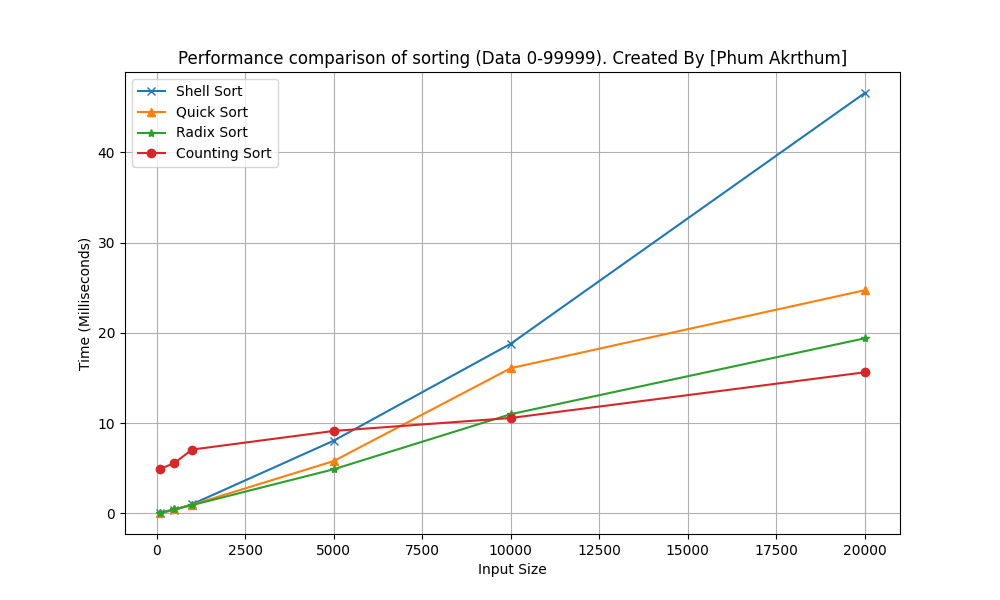
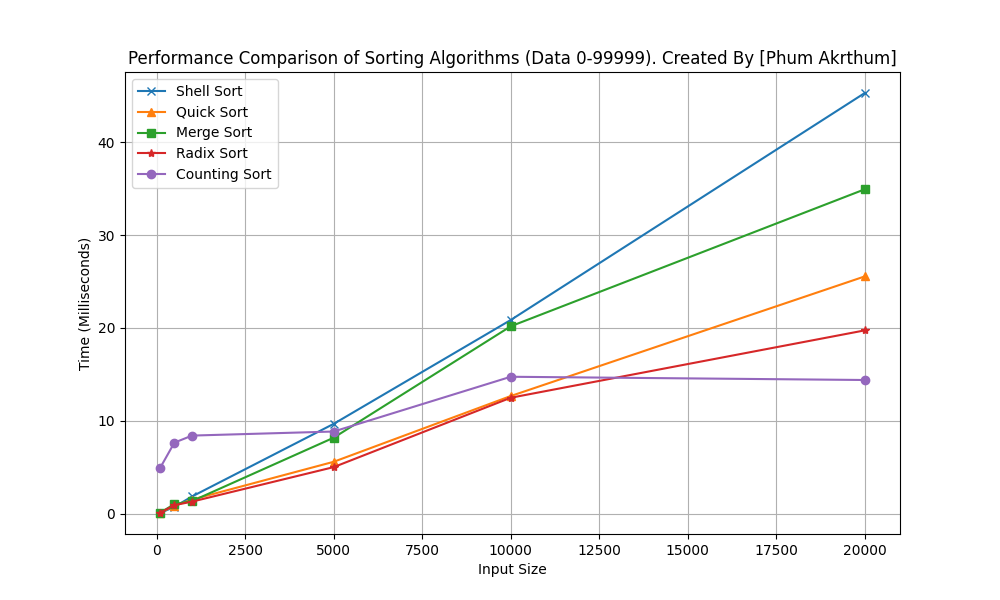
Update14

diff --git a/lastsorting.0-999999.py b/lastsorting.0-999999.py
@@ -103,7 +103,7 @@ def counting_sort_by_digit(arr, exp):
 
 # ฟังก์ชันเปรียบเทียบประสิทธิภาพ
 def compare_sort():
-    sizes = [100, 500, 1000, 5000, 10000, 20000]
+    sizes = [1000, 5000, 10000, 20000, 40000, 100000]  # เปลี่ยนขนาดอินพุต
     shell_times = []
     quick_times = []
     merge_times = []
@@ -111,7 +111,7 @@ def compare_sort():
     counting_times = []
 
     for size in sizes:
-        data = [random.randint(0, 99999) for _ in range(size)]
+        data = [random.randint(0, 999999) for _ in range(size)]  # เปลี่ยนข้อมูลให้อยู่ในช่วง 0-999
         
         # วัดเวลา Shell Sort
         start_time = time.time()
@@ -154,12 +154,12 @@ def compare_sort():
     plt.plot(sizes, radix_times, marker='*', label='Radix Sort')
     plt.plot(sizes, counting_times, marker='o', label='Counting Sort')
 
-    plt.title('Performance Comparison of Sorting Algorithms (Data 0-99999). Created By [Phum Akrthum]')
+    plt.title('Performance Comparison of Sorting Algorithms (Data 0-999999). Created By [Phum Akrthum]')
     plt.xlabel('Input Size')
     plt.ylabel('Time (Milliseconds)')
     plt.legend()
     plt.grid(True)
-    plt.savefig('Sorting_Performance_Comparison_All.png')
+    plt.savefig('Sorting_Performance_Comparison_0-999.png')
     plt.show()
 
 # เรียกใช้ฟังก์ชัน

diff --git a/lastsorting.0-999.py b/lastsorting.0-999.py
@@ -103,7 +103,7 @@ def counting_sort_by_digit(arr, exp):
 
 # ฟังก์ชันเปรียบเทียบประสิทธิภาพ
 def compare_sort():
-    sizes = [100, 500, 1000, 5000, 10000, 20000]
+    sizes = [1000, 5000, 10000, 20000, 40000, 100000]  # เปลี่ยนขนาดอินพุต
     shell_times = []
     quick_times = []
     merge_times = []
@@ -111,7 +111,7 @@ def compare_sort():
     counting_times = []
 
     for size in sizes:
-        data = [random.randint(0, 99999) for _ in range(size)]
+        data = [random.randint(0, 999) for _ in range(size)]  # เปลี่ยนข้อมูลให้อยู่ในช่วง 0-999
         
         # วัดเวลา Shell Sort
         start_time = time.time()
@@ -154,12 +154,12 @@ def compare_sort():
     plt.plot(sizes, radix_times, marker='*', label='Radix Sort')
     plt.plot(sizes, counting_times, marker='o', label='Counting Sort')
 
-    plt.title('Performance Comparison of Sorting Algorithms (Data 0-99999). Created By [Phum Akrthum]')
+    plt.title('Performance Comparison of Sorting Algorithms (Data 0-999). Created By [Phum Akrthum]')
     plt.xlabel('Input Size')
     plt.ylabel('Time (Milliseconds)')
     plt.legend()
     plt.grid(True)
-    plt.savefig('Sorting_Performance_Comparison_All.png')
+    plt.savefig('Sorting_Performance_Comparison_0-999.png')
     plt.show()
 
 # เรียกใช้ฟังก์ชัน

diff --git a/lastsorting.0-99999.py b/lastsorting.0-99999.py
@@ -103,7 +103,7 @@ def counting_sort_by_digit(arr, exp):
 
 # ฟังก์ชันเปรียบเทียบประสิทธิภาพ
 def compare_sort():
-    sizes = [100, 500, 1000, 5000, 10000, 20000]
+    sizes = [1000, 5000, 10000, 20000, 40000, 100000]  # เปลี่ยนขนาดอินพุต
     shell_times = []
     quick_times = []
     merge_times = []
@@ -111,7 +111,7 @@ def compare_sort():
     counting_times = []
 
     for size in sizes:
-        data = [random.randint(0, 99999) for _ in range(size)]
+        data = [random.randint(0, 99999) for _ in range(size)]  # เปลี่ยนข้อมูลให้อยู่ในช่วง 0-999
         
         # วัดเวลา Shell Sort
         start_time = time.time()
@@ -159,7 +159,7 @@ def compare_sort():
     plt.ylabel('Time (Milliseconds)')
     plt.legend()
     plt.grid(True)
-    plt.savefig('Sorting_Performance_Comparison_All.png')
+    plt.savefig('Sorting_Performance_Comparison_0-999.png')
     plt.show()
 
 # เรียกใช้ฟังก์ชัน

diff --git a/sorting-algorithms-lab.md b/sorting-algorithms-lab.md
@@ -967,7 +967,7 @@ compare_sort()
 
 ![alt text](picture/Figure_4.png)
 
-    ผลการเปรียบเทียบ shell sort, quick sort, merge sort,radix sort, couting sort
+ผลการเปรียบเทียบ shell sort, quick sort, merge sort,radix sort, couting sort
 ![alt text](picture/Figure_5.png)
 
 
@@ -982,19 +982,27 @@ compare_sort()
 
     ผลการเปรียบเทียบ shell sort, quick sort, merge sort,radix sort, couting sort (กรณี Data 0-999)
 
-![รูปผลการทดลอง](./imagepath/image.png)
+![alt text](picture/Figure_7.png)
 
     ผลการเปรียบเทียบ shell sort, quick sort, merge sort,radix sort, couting sort (กรณี Data 0-99999)
 
-![รูปผลการทดลอง](./imagepath/image.png)
+![alt text](picture/Figure_8.png)
 
     ผลการเปรียบเทียบ shell sort, quick sort, merge sort,radix sort, couting sort (กรณี Data 0-999999)
 
-![รูปผลการทดลอง](./imagepath/image.png)
+![alt text](picture/Figure_9.png)
 
 
 ### สรุปผลการลอง เปรียบเทียบประสิทธิภาพของการเรียงข้อมูลแต่ละแบบ เมื่อใช้กับข้อมูลขนาดเล็ก ขนาดใหญ่ และข้อมูลที่มีความความแตกต่างของข้อมูลน้อย และความแตกต่างของข้อมูลมาก
 
 ```html
 เขียนสรุปผลการทดลองที่นี่
+
+เมื่อทำการเปรียบเทียบประสิทธิภาพของอัลกอริธึมการเรียงข้อมูล Bubble Sort, Insertion Sort, Selection Sort, Shell Sort, Quick Sort, Radix Sort, และ Counting Sort ในสถานการณ์ต่างๆ 
+สรุปผล:
+เมื่อใช้กับข้อมูลขนาดเล็ก: Bubble Sort, Insertion Sort, และ Selection Sort ยังทำงานได้พอสมควร, แต่ Shell Sort, Quick Sort จะได้ผลดีกว่าเมื่อขนาดข้อมูลเพิ่มขึ้น
+เมื่อใช้กับข้อมูลขนาดใหญ่: Bubble Sort, Insertion Sort, และ Selection Sort จะช้าลงอย่างมาก, ในขณะที่ Shell Sort, Quick Sort, Radix Sort, และ Counting Sort จะทำงานได้ดีขึ้น
+เมื่อข้อมูลเกือบเรียงลำดับแล้ว: Bubble Sort และ Insertion Sort จะได้ผลดีในกรณีนี้, แต่ Quick Sort อาจทำงานไม่ดีหากเลือก pivot ที่ไม่เหมาะสม
+เมื่อข้อมูลสุ่ม: Quick Sort, Radix Sort, และ Counting Sort จะทำงานได้ดีกว่าเนื่องจากวิธีการแบ่งข้อมูลที่มีประสิทธิภาพ
+การเลือกอัลกอริธึมที่เหมาะสมที่สุดจะขึ้นอยู่กับขนาดของข้อมูล, รูปแบบของข้อมูล (เรียงลำดับแล้วหรือสุ่ม), และข้อจำกัดของเวลาในการประมวลผล.
 ``` 
